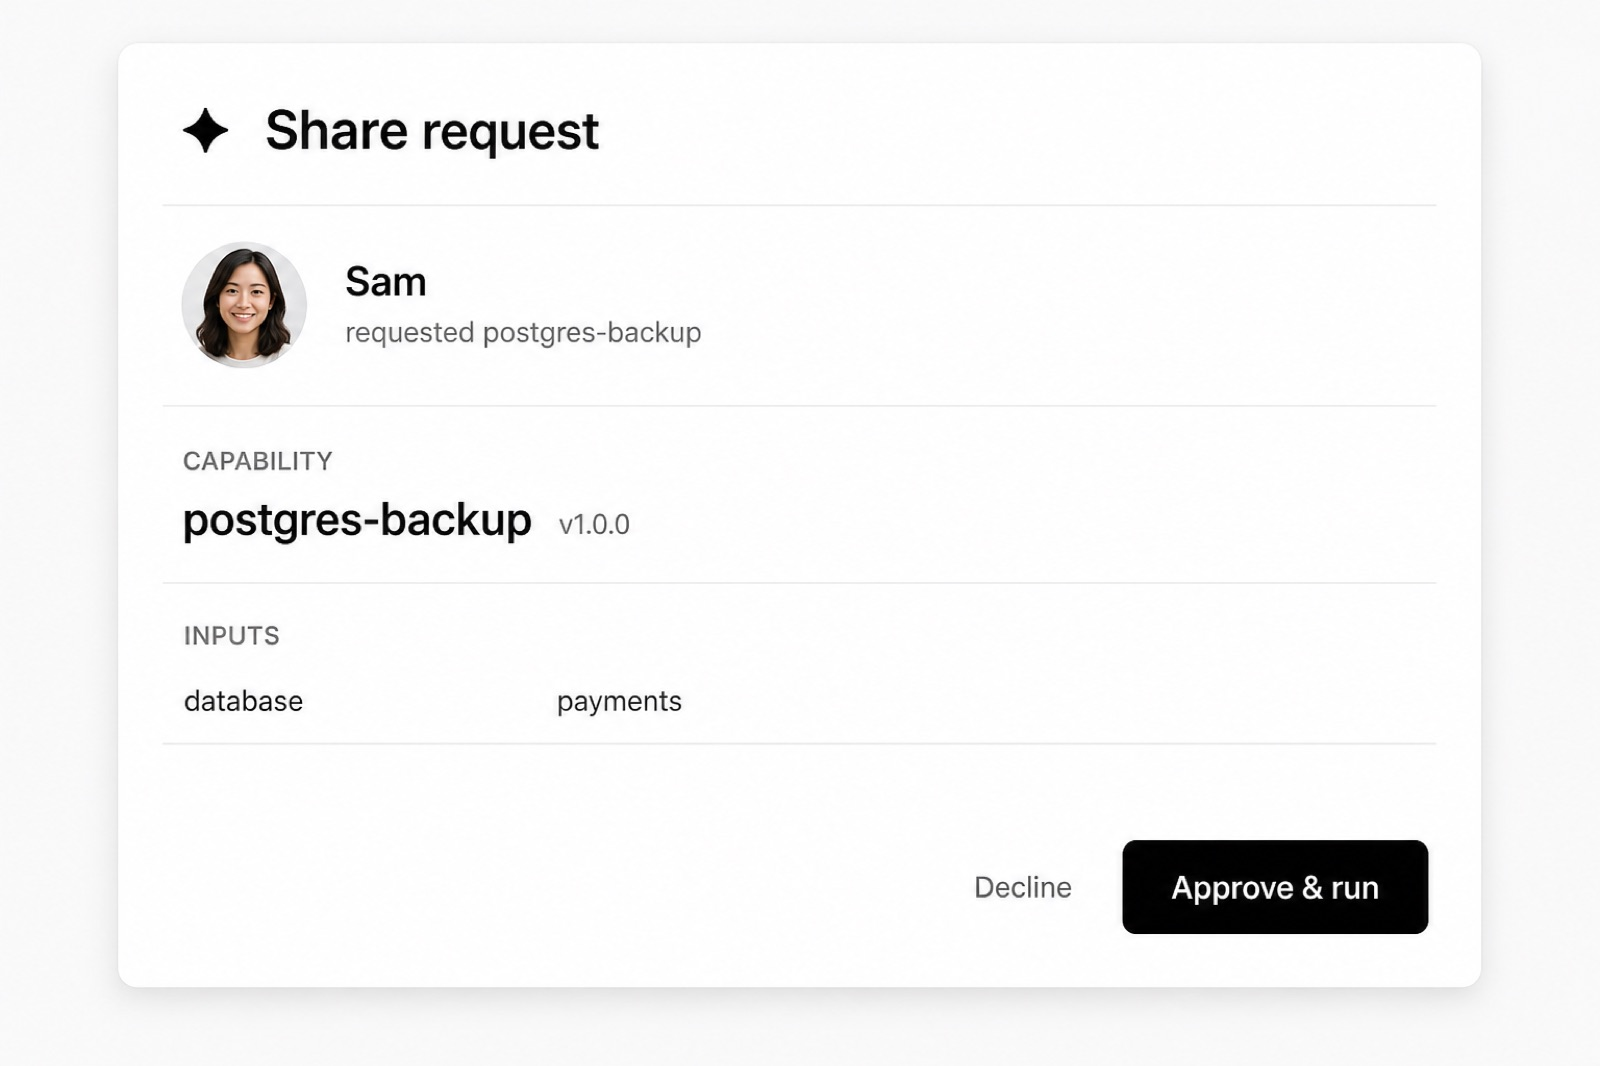
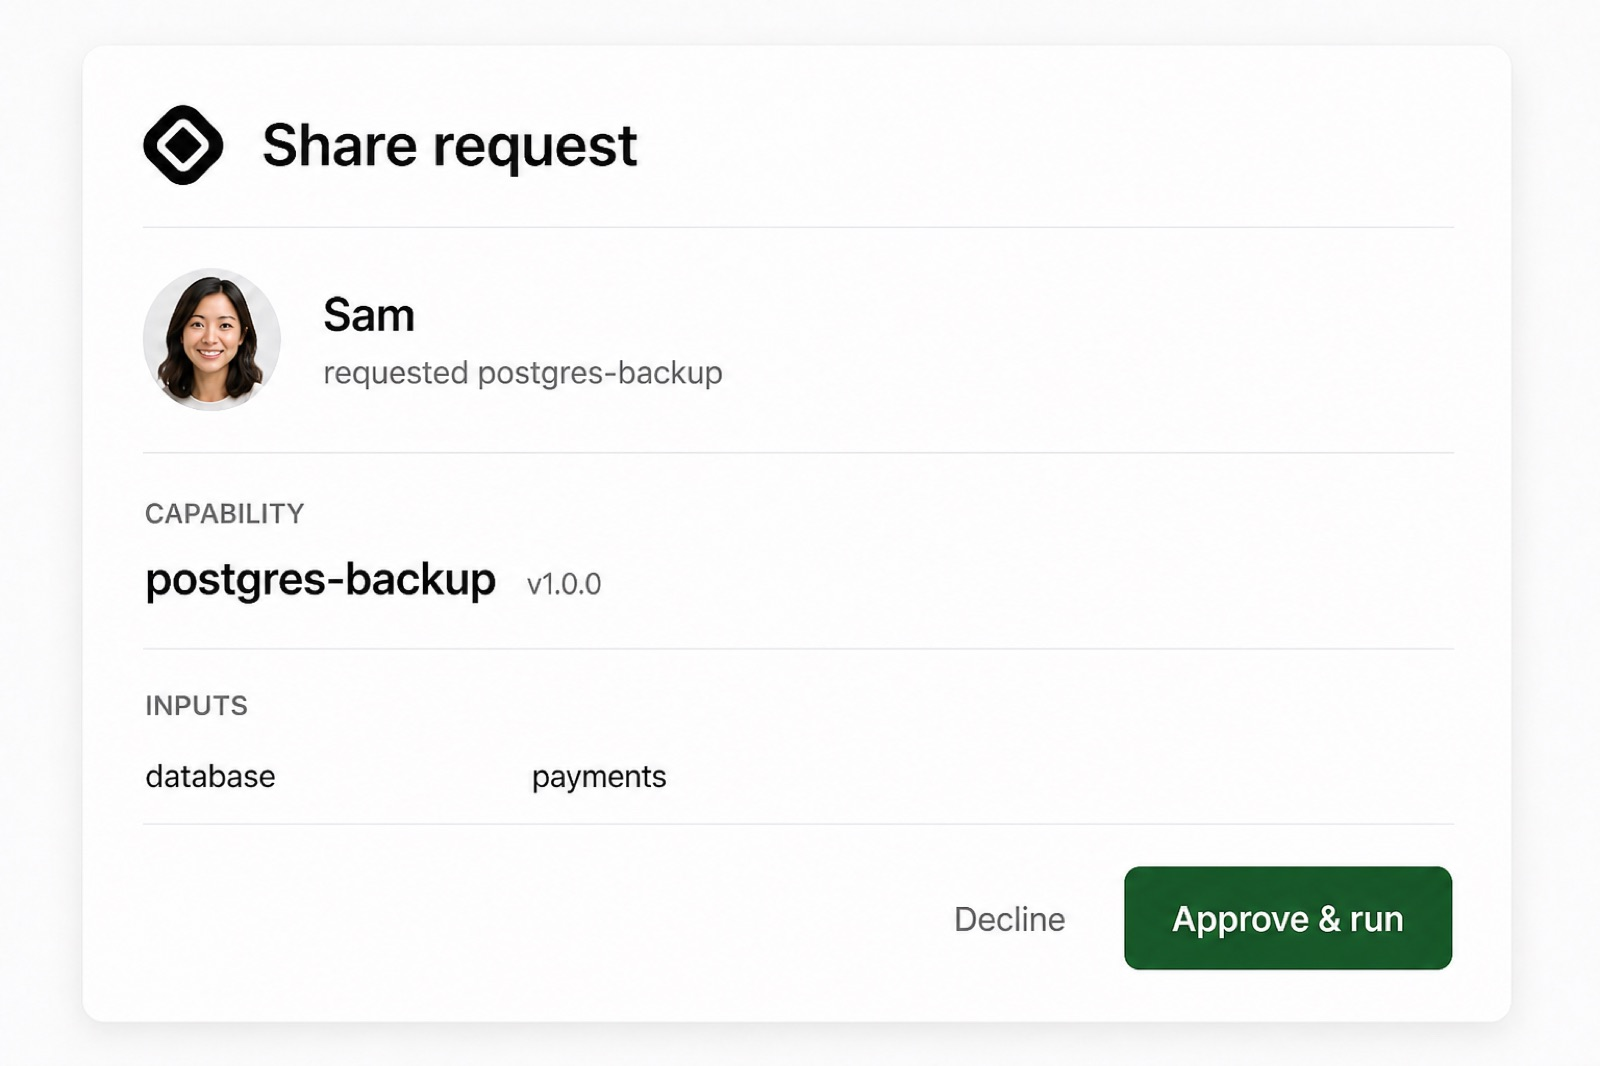
docs: rewrite README around freeze and Share (#28)
* docs: rewrite README for freeze and replay

Product README now shows Capability + Recipe, real install, and
docs.doppels.so links with diagrams for the full flow.

* docs: two-panel hero and Share as day-one

Hero is agent session plus local replay. Share copy matches GA, not preview.

* docs: swap README hero for freeze poster

---------

diff --git a/README.md b/README.md
@@ -30,7 +30,7 @@
 </p>
 
 <p align="center">
-  <img src="docs/images/hero-flow.jpg" alt="Four-step Doppels flow: an agent explores with tool calls, you say doppel freeze, doppels run replays locally, then a Share request is approved" width="100%">
+  <img src="docs/images/hero-flow.jpg" alt="Agent run as failed paths; Doppels; Recipe as Inspect, Query, Export, Verify. Versioned. Shareable. Portable." width="100%">
 </p>
 
 ## Quick start
@@ -154,7 +154,7 @@ A freeze can describe:
 Review the YAML before you run it. Credentials stay on the host.
 
 <p align="center">
-  <img src="docs/images/recipe-in-editor.jpg" alt="Editor with capabilities/postgres-backup.yaml and recipes/postgres-backup-pg.yaml. Callouts: typed inputs, explicit tools, reviewed steps, declared outputs." width="100%">
+  <img src="docs/images/recipe-in-editor.jpg" alt="Dark editor on examples/quickstart: .doppels/capabilities/greet.yaml and recipes/greet.yaml. Callouts: typed inputs, explicit tools, reviewed steps, declared outputs." width="100%">
 </p>
 
 Schemas: [`schemas/`](schemas/). YAML reference: [docs](https://docs.doppels.so/reference/yaml-schemas).
@@ -164,7 +164,7 @@ Schemas: [`schemas/`](schemas/). YAML reference: [docs](https://docs.doppels.so/
 1. Use Claude Code, Cursor, Codex, or another supported agent to complete a task.
 2. Once the run succeeds, ask the agent to freeze it (`doppel freeze`). The [doppel-freeze skill](skills/doppel-freeze/SKILL.md) writes Capability + Recipe YAML.
 3. Review the generated files and commit them to Git.
-4. Replay locally with `doppels run`, or share as an approval-gated Capability (preview).
+4. Replay locally with `doppels run`, or share as an approval-gated Capability.
 
 ```text
 Agent explores → Successful run → Freeze (skill) → Capability + Recipe
@@ -173,7 +173,7 @@ Agent explores → Successful run → Freeze (skill) → Capability + Recipe
 ```
 
 <p align="center">
-  <img src="docs/images/how-it-works.jpg" alt="Three stages: Discover with a compatible agent, freeze into local YAML and commit, then reuse via doppels run or Share by request." width="100%">
+  <img src="docs/images/how-it-works.jpg" alt="Three stages: chat with an agent about a Postgres backup, freeze into local YAML, then reuse via doppels run or Share." width="100%">
 </p>
 
 ## Replay locally
@@ -201,10 +201,9 @@ Guide: [Validate and run](https://docs.doppels.so/guides/validate-and-run). CLI 
 
 ## Share the capability
 
-Share is a **preview** cloud feature. Enable it, then create a request link for a Capability:
+Share is included from day one, free. Create a request link for a Capability:
 
 ```bash
-doppels experimental on
 doppels share capability/postgres-backup
 ```
 
@@ -274,7 +273,7 @@ The kind of work freeze is meant to capture:
 Every published example should be executable and include its requirements, expected side effects, and test fixture.
 
 <p align="center">
-  <img src="docs/images/recipe-catalog.jpg" alt="Illustrative catalog of frozen Capabilities: postgres-backup selected with inputs and backup-file output." width="100%">
+  <img src="docs/images/recipe-catalog.jpg" alt="Catalog of Capabilities. postgres-backup selected with Run and Share link actions, dark YAML, and backup-file output." width="100%">
 </p>
 
 ## Honest limits
@@ -303,7 +302,7 @@ Freeze skill → Capability + Recipe files → Git
                        ↓
                   CLI / runtime → Local tools and environment
                        ↕
-              Optional share coordination (preview)
+              Share coordination
 ```
 
 The core model separates:
@@ -311,13 +310,13 @@ The core model separates:
 - **Discovery:** an agent explores and completes the task.
 - **Compilation:** the freeze skill converts the successful tool path into YAML.
 - **Execution:** the runtime validates inputs and invokes explicit Steps locally.
-- **Coordination:** optional sharing handles requests and approvals. Credentials and Steps stay on the node.
+- **Coordination:** Share handles requests and approvals. Credentials and Steps stay on the node.
 
 <p align="center">
-  <img src="docs/images/architecture.jpg" alt="Architecture: agent integration into the freeze skill, then OSS local CLI runtime, tools, YAML, and Git. Optional dashed cloud box for Share requests." width="100%">
+  <img src="docs/images/architecture.jpg" alt="Architecture: agent integration into the freeze skill, then OSS local CLI runtime, tools, YAML, and Git. Share coordinates requests; the node executes." width="100%">
 </p>
 
-This repository is the Apache-2.0 core: CLI, schemas, and agent skills. The hosted control plane is separate and optional.
+This repository is the Apache-2.0 core: CLI, schemas, and agent skills. Share ships from day one, free. Local `doppels run` still works on its own; Share uses the hosted control plane only to coordinate requests.
 
 ## Project status
 
